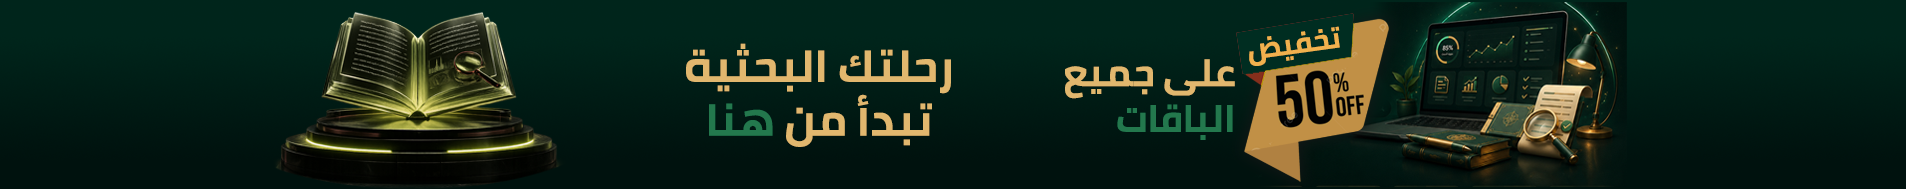
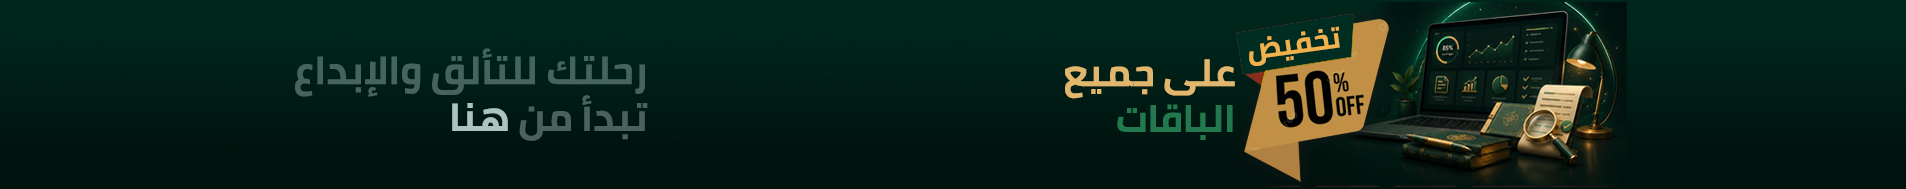
تحديث

Changed region(s): [[0.1238, 0.0794, 0.5262, 0.8201], [0.3715, 0.5556, 0.4953, 0.7672], [0.4334, 0.5026, 0.4643, 0.5556]]

diff --git a/bots.html b/bots.html
@@ -24,19 +24,8 @@
       isolation:isolate;
       overflow:hidden;
       background:#020d08;
-      border-block:1px solid rgba(209,161,58,.58);
-      box-shadow:0 18px 55px rgba(0,0,0,.30), inset 0 1px 0 rgba(240,217,140,.20);
-    }
-    .discount-banner-v1::before{
-      content:"";
-      position:absolute;
-      inset:-48% -22%;
-      z-index:3;
-      pointer-events:none;
-      background:linear-gradient(105deg,transparent 34%,rgba(255,236,170,.06) 44%,rgba(255,236,170,.34) 50%,rgba(30,255,145,.12) 54%,transparent 66%);
-      transform:translateX(76%);
-      animation:discountBannerShineV3 5.4s ease-in-out infinite;
-      mix-blend-mode:screen;
+      border-block:1px solid rgba(209,161,58,.54);
+      box-shadow:0 18px 55px rgba(0,0,0,.30), inset 0 1px 0 rgba(240,217,140,.18);
     }
     .discount-banner-v1::after{
       content:"";
@@ -45,12 +34,12 @@
       z-index:2;
       pointer-events:none;
       background:
-        radial-gradient(circle at 78% 42%,rgba(240,217,140,.20),transparent 15%),
-        radial-gradient(circle at 88% 36%,rgba(30,255,145,.24),transparent 22%),
-        radial-gradient(circle at 18% 48%,rgba(240,217,140,.16),transparent 20%),
-        linear-gradient(180deg,rgba(255,255,255,.07),transparent 30%,rgba(0,0,0,.18));
-      opacity:.72;
-      animation:discountBannerGlowV3 3.8s ease-in-out infinite alternate;
+        radial-gradient(circle at 76% 42%,rgba(240,217,140,.14),transparent 16%),
+        radial-gradient(circle at 89% 36%,rgba(30,255,145,.16),transparent 24%),
+        radial-gradient(circle at 18% 48%,rgba(240,217,140,.10),transparent 22%),
+        linear-gradient(180deg,rgba(255,255,255,.045),transparent 34%,rgba(0,0,0,.18));
+      opacity:.62;
+      animation:discountBannerGlowV4 5.6s ease-in-out infinite alternate;
     }
     .discount-banner-link-v1{
       position:relative;
@@ -62,22 +51,6 @@
       text-decoration:none!important;
       background:#020d08;
     }
-    .discount-banner-link-v1::before,
-    .discount-banner-link-v1::after{
-      content:"";
-      position:absolute;
-      z-index:4;
-      pointer-events:none;
-      width:9px;
-      height:9px;
-      border-radius:50%;
-      background:rgba(240,217,140,.96);
-      box-shadow:0 0 18px rgba(240,217,140,.78),0 0 28px rgba(30,255,145,.36);
-      opacity:0;
-      animation:discountSparkV3 2.9s ease-in-out infinite;
-    }
-    .discount-banner-link-v1::before{top:24%;right:70%;animation-delay:.25s}
-    .discount-banner-link-v1::after{top:32%;right:23%;animation-delay:1.15s}
     .discount-banner-img-v1{
       display:block;
       width:100%;
@@ -85,35 +58,25 @@
       max-height:190px;
       object-fit:cover;
       object-position:center;
-      filter:saturate(1.10) contrast(1.06) drop-shadow(0 14px 36px rgba(0,0,0,.30));
+      filter:saturate(1.09) contrast(1.055) drop-shadow(0 14px 36px rgba(0,0,0,.30));
       transform:scale(1.003);
-      animation:discountBannerFloatV3 6.8s ease-in-out infinite;
+      animation:discountBannerFloatV4 7.2s ease-in-out infinite;
+      transition:filter .35s ease, transform .35s ease;
     }
     .discount-banner-v1:hover .discount-banner-img-v1{
-      filter:saturate(1.20) contrast(1.10) brightness(1.045) drop-shadow(0 18px 44px rgba(0,0,0,.36));
+      filter:saturate(1.18) contrast(1.09) brightness(1.035) drop-shadow(0 18px 44px rgba(0,0,0,.36));
       transform:scale(1.012);
     }
-    .discount-banner-pulse-v1{
-      position:absolute;
-      z-index:5;
-      inset:auto 14.2% 16% auto;
-      width:128px;
-      height:128px;
-      border-radius:999px;
-      pointer-events:none;
-      border:1px solid rgba(240,217,140,.28);
-      box-shadow:0 0 0 0 rgba(240,217,140,.24),0 0 38px rgba(30,255,145,.16);
-      animation:discountPulseV3 2.45s ease-out infinite;
-      opacity:.58;
+    .discount-banner-v1:hover{
+      border-block-color:rgba(240,217,140,.70);
+      box-shadow:0 20px 62px rgba(0,0,0,.34), inset 0 1px 0 rgba(240,217,140,.22);
     }
-    @keyframes discountBannerShineV3{0%,38%{transform:translateX(78%);opacity:0}50%{opacity:.95}76%,100%{transform:translateX(-78%);opacity:0}}
-    @keyframes discountBannerGlowV3{from{opacity:.48;filter:saturate(1)}to{opacity:.88;filter:saturate(1.15)}}
-    @keyframes discountBannerFloatV3{0%,100%{transform:scale(1.003) translateY(0)}50%{transform:scale(1.009) translateY(-2px)}}
-    @keyframes discountPulseV3{0%{transform:scale(.74);opacity:0;box-shadow:0 0 0 0 rgba(240,217,140,.24)}30%{opacity:.62}100%{transform:scale(1.22);opacity:0;box-shadow:0 0 0 30px rgba(240,217,140,0)}}
-    @keyframes discountSparkV3{0%,100%{opacity:0;transform:scale(.4)}18%{opacity:.95;transform:scale(1.2)}38%{opacity:.20;transform:scale(.82)}}
-    @media(max-width:720px){.discount-banner-link-v1{min-height:70px}.discount-banner-img-v1{min-height:84px;object-fit:cover;object-position:center}.discount-banner-pulse-v1{display:none}.discount-banner-link-v1::before,.discount-banner-link-v1::after{display:none}}
+    .discount-banner-pulse-v1{display:none!important}
+    @keyframes discountBannerGlowV4{from{opacity:.48;filter:saturate(1)}to{opacity:.78;filter:saturate(1.12)}}
+    @keyframes discountBannerFloatV4{0%,100%{transform:scale(1.003) translateY(0)}50%{transform:scale(1.008) translateY(-2px)}}
+    @media(max-width:720px){.discount-banner-link-v1{min-height:70px}.discount-banner-img-v1{min-height:84px;object-fit:cover;object-position:center}}
     @media(max-width:460px){.discount-banner-img-v1{min-height:76px;object-position:center}.discount-banner-v1{border-block-color:rgba(209,161,58,.42)}}
-    @media(prefers-reduced-motion:reduce){.discount-banner-v1::before,.discount-banner-v1::after,.discount-banner-img-v1,.discount-banner-pulse-v1,.discount-banner-link-v1::before,.discount-banner-link-v1::after{animation:none!important}.discount-banner-v1:hover .discount-banner-img-v1{transform:none}}
+    @media(prefers-reduced-motion:reduce){.discount-banner-v1::after,.discount-banner-img-v1{animation:none!important}.discount-banner-v1:hover .discount-banner-img-v1{transform:none}}
   </style>
 </head>
 <body data-page="public-bots">
@@ -133,7 +96,6 @@
   <section class="discount-banner-v1" aria-label="بانر عرض تخفيض على جميع الباقات">
     <a class="discount-banner-link-v1" href="package.html" aria-label="استعراض الباقات المشمولة بالخصم">
       <img class="discount-banner-img-v1" src="images/discount-80-banner.png" alt="عرض تخفيض على جميع الباقات - رحلتك البحثية تبدأ من هنا" loading="eager" decoding="async">
-      <span class="discount-banner-pulse-v1" aria-hidden="true"></span>
     </a>
   </section>
   <main id="app"></main>

diff --git a/index.html b/index.html
@@ -24,19 +24,8 @@
       isolation:isolate;
       overflow:hidden;
       background:#020d08;
-      border-block:1px solid rgba(209,161,58,.58);
-      box-shadow:0 18px 55px rgba(0,0,0,.30), inset 0 1px 0 rgba(240,217,140,.20);
-    }
-    .discount-banner-v1::before{
-      content:"";
-      position:absolute;
-      inset:-48% -22%;
-      z-index:3;
-      pointer-events:none;
-      background:linear-gradient(105deg,transparent 34%,rgba(255,236,170,.06) 44%,rgba(255,236,170,.34) 50%,rgba(30,255,145,.12) 54%,transparent 66%);
-      transform:translateX(76%);
-      animation:discountBannerShineV3 5.4s ease-in-out infinite;
-      mix-blend-mode:screen;
+      border-block:1px solid rgba(209,161,58,.54);
+      box-shadow:0 18px 55px rgba(0,0,0,.30), inset 0 1px 0 rgba(240,217,140,.18);
     }
     .discount-banner-v1::after{
       content:"";
@@ -45,12 +34,12 @@
       z-index:2;
       pointer-events:none;
       background:
-        radial-gradient(circle at 78% 42%,rgba(240,217,140,.20),transparent 15%),
-        radial-gradient(circle at 88% 36%,rgba(30,255,145,.24),transparent 22%),
-        radial-gradient(circle at 18% 48%,rgba(240,217,140,.16),transparent 20%),
-        linear-gradient(180deg,rgba(255,255,255,.07),transparent 30%,rgba(0,0,0,.18));
-      opacity:.72;
-      animation:discountBannerGlowV3 3.8s ease-in-out infinite alternate;
+        radial-gradient(circle at 76% 42%,rgba(240,217,140,.14),transparent 16%),
+        radial-gradient(circle at 89% 36%,rgba(30,255,145,.16),transparent 24%),
+        radial-gradient(circle at 18% 48%,rgba(240,217,140,.10),transparent 22%),
+        linear-gradient(180deg,rgba(255,255,255,.045),transparent 34%,rgba(0,0,0,.18));
+      opacity:.62;
+      animation:discountBannerGlowV4 5.6s ease-in-out infinite alternate;
     }
     .discount-banner-link-v1{
       position:relative;
@@ -62,22 +51,6 @@
       text-decoration:none!important;
       background:#020d08;
     }
-    .discount-banner-link-v1::before,
-    .discount-banner-link-v1::after{
-      content:"";
-      position:absolute;
-      z-index:4;
-      pointer-events:none;
-      width:9px;
-      height:9px;
-      border-radius:50%;
-      background:rgba(240,217,140,.96);
-      box-shadow:0 0 18px rgba(240,217,140,.78),0 0 28px rgba(30,255,145,.36);
-      opacity:0;
-      animation:discountSparkV3 2.9s ease-in-out infinite;
-    }
-    .discount-banner-link-v1::before{top:24%;right:70%;animation-delay:.25s}
-    .discount-banner-link-v1::after{top:32%;right:23%;animation-delay:1.15s}
     .discount-banner-img-v1{
       display:block;
       width:100%;
@@ -85,35 +58,25 @@
       max-height:190px;
       object-fit:cover;
       object-position:center;
-      filter:saturate(1.10) contrast(1.06) drop-shadow(0 14px 36px rgba(0,0,0,.30));
+      filter:saturate(1.09) contrast(1.055) drop-shadow(0 14px 36px rgba(0,0,0,.30));
       transform:scale(1.003);
-      animation:discountBannerFloatV3 6.8s ease-in-out infinite;
+      animation:discountBannerFloatV4 7.2s ease-in-out infinite;
+      transition:filter .35s ease, transform .35s ease;
     }
     .discount-banner-v1:hover .discount-banner-img-v1{
-      filter:saturate(1.20) contrast(1.10) brightness(1.045) drop-shadow(0 18px 44px rgba(0,0,0,.36));
+      filter:saturate(1.18) contrast(1.09) brightness(1.035) drop-shadow(0 18px 44px rgba(0,0,0,.36));
       transform:scale(1.012);
     }
-    .discount-banner-pulse-v1{
-      position:absolute;
-      z-index:5;
-      inset:auto 14.2% 16% auto;
-      width:128px;
-      height:128px;
-      border-radius:999px;
-      pointer-events:none;
-      border:1px solid rgba(240,217,140,.28);
-      box-shadow:0 0 0 0 rgba(240,217,140,.24),0 0 38px rgba(30,255,145,.16);
-      animation:discountPulseV3 2.45s ease-out infinite;
-      opacity:.58;
+    .discount-banner-v1:hover{
+      border-block-color:rgba(240,217,140,.70);
+      box-shadow:0 20px 62px rgba(0,0,0,.34), inset 0 1px 0 rgba(240,217,140,.22);
     }
-    @keyframes discountBannerShineV3{0%,38%{transform:translateX(78%);opacity:0}50%{opacity:.95}76%,100%{transform:translateX(-78%);opacity:0}}
-    @keyframes discountBannerGlowV3{from{opacity:.48;filter:saturate(1)}to{opacity:.88;filter:saturate(1.15)}}
-    @keyframes discountBannerFloatV3{0%,100%{transform:scale(1.003) translateY(0)}50%{transform:scale(1.009) translateY(-2px)}}
-    @keyframes discountPulseV3{0%{transform:scale(.74);opacity:0;box-shadow:0 0 0 0 rgba(240,217,140,.24)}30%{opacity:.62}100%{transform:scale(1.22);opacity:0;box-shadow:0 0 0 30px rgba(240,217,140,0)}}
-    @keyframes discountSparkV3{0%,100%{opacity:0;transform:scale(.4)}18%{opacity:.95;transform:scale(1.2)}38%{opacity:.20;transform:scale(.82)}}
-    @media(max-width:720px){.discount-banner-link-v1{min-height:70px}.discount-banner-img-v1{min-height:84px;object-fit:cover;object-position:center}.discount-banner-pulse-v1{display:none}.discount-banner-link-v1::before,.discount-banner-link-v1::after{display:none}}
+    .discount-banner-pulse-v1{display:none!important}
+    @keyframes discountBannerGlowV4{from{opacity:.48;filter:saturate(1)}to{opacity:.78;filter:saturate(1.12)}}
+    @keyframes discountBannerFloatV4{0%,100%{transform:scale(1.003) translateY(0)}50%{transform:scale(1.008) translateY(-2px)}}
+    @media(max-width:720px){.discount-banner-link-v1{min-height:70px}.discount-banner-img-v1{min-height:84px;object-fit:cover;object-position:center}}
     @media(max-width:460px){.discount-banner-img-v1{min-height:76px;object-position:center}.discount-banner-v1{border-block-color:rgba(209,161,58,.42)}}
-    @media(prefers-reduced-motion:reduce){.discount-banner-v1::before,.discount-banner-v1::after,.discount-banner-img-v1,.discount-banner-pulse-v1,.discount-banner-link-v1::before,.discount-banner-link-v1::after{animation:none!important}.discount-banner-v1:hover .discount-banner-img-v1{transform:none}}
+    @media(prefers-reduced-motion:reduce){.discount-banner-v1::after,.discount-banner-img-v1{animation:none!important}.discount-banner-v1:hover .discount-banner-img-v1{transform:none}}
   </style>
 </head>
 <body data-page="public-home">
@@ -133,7 +96,6 @@
   <section class="discount-banner-v1" aria-label="بانر عرض تخفيض على جميع الباقات">
     <a class="discount-banner-link-v1" href="package.html" aria-label="استعراض الباقات المشمولة بالخصم">
       <img class="discount-banner-img-v1" src="images/discount-80-banner.png" alt="عرض تخفيض على جميع الباقات - رحلتك البحثية تبدأ من هنا" loading="eager" decoding="async">
-      <span class="discount-banner-pulse-v1" aria-hidden="true"></span>
     </a>
   </section>
   <main id="app"></main>

diff --git a/package.html b/package.html
@@ -24,19 +24,8 @@
       isolation:isolate;
       overflow:hidden;
       background:#020d08;
-      border-block:1px solid rgba(209,161,58,.58);
-      box-shadow:0 18px 55px rgba(0,0,0,.30), inset 0 1px 0 rgba(240,217,140,.20);
-    }
-    .discount-banner-v1::before{
-      content:"";
-      position:absolute;
-      inset:-48% -22%;
-      z-index:3;
-      pointer-events:none;
-      background:linear-gradient(105deg,transparent 34%,rgba(255,236,170,.06) 44%,rgba(255,236,170,.34) 50%,rgba(30,255,145,.12) 54%,transparent 66%);
-      transform:translateX(76%);
-      animation:discountBannerShineV3 5.4s ease-in-out infinite;
-      mix-blend-mode:screen;
+      border-block:1px solid rgba(209,161,58,.54);
+      box-shadow:0 18px 55px rgba(0,0,0,.30), inset 0 1px 0 rgba(240,217,140,.18);
     }
     .discount-banner-v1::after{
       content:"";
@@ -45,12 +34,12 @@
       z-index:2;
       pointer-events:none;
       background:
-        radial-gradient(circle at 78% 42%,rgba(240,217,140,.20),transparent 15%),
-        radial-gradient(circle at 88% 36%,rgba(30,255,145,.24),transparent 22%),
-        radial-gradient(circle at 18% 48%,rgba(240,217,140,.16),transparent 20%),
-        linear-gradient(180deg,rgba(255,255,255,.07),transparent 30%,rgba(0,0,0,.18));
-      opacity:.72;
-      animation:discountBannerGlowV3 3.8s ease-in-out infinite alternate;
+        radial-gradient(circle at 76% 42%,rgba(240,217,140,.14),transparent 16%),
+        radial-gradient(circle at 89% 36%,rgba(30,255,145,.16),transparent 24%),
+        radial-gradient(circle at 18% 48%,rgba(240,217,140,.10),transparent 22%),
+        linear-gradient(180deg,rgba(255,255,255,.045),transparent 34%,rgba(0,0,0,.18));
+      opacity:.62;
+      animation:discountBannerGlowV4 5.6s ease-in-out infinite alternate;
     }
     .discount-banner-link-v1{
       position:relative;
@@ -62,22 +51,6 @@
       text-decoration:none!important;
       background:#020d08;
     }
-    .discount-banner-link-v1::before,
-    .discount-banner-link-v1::after{
-      content:"";
-      position:absolute;
-      z-index:4;
-      pointer-events:none;
-      width:9px;
-      height:9px;
-      border-radius:50%;
-      background:rgba(240,217,140,.96);
-      box-shadow:0 0 18px rgba(240,217,140,.78),0 0 28px rgba(30,255,145,.36);
-      opacity:0;
-      animation:discountSparkV3 2.9s ease-in-out infinite;
-    }
-    .discount-banner-link-v1::before{top:24%;right:70%;animation-delay:.25s}
-    .discount-banner-link-v1::after{top:32%;right:23%;animation-delay:1.15s}
     .discount-banner-img-v1{
       display:block;
       width:100%;
@@ -85,35 +58,25 @@
       max-height:190px;
       object-fit:cover;
       object-position:center;
-      filter:saturate(1.10) contrast(1.06) drop-shadow(0 14px 36px rgba(0,0,0,.30));
+      filter:saturate(1.09) contrast(1.055) drop-shadow(0 14px 36px rgba(0,0,0,.30));
       transform:scale(1.003);
-      animation:discountBannerFloatV3 6.8s ease-in-out infinite;
+      animation:discountBannerFloatV4 7.2s ease-in-out infinite;
+      transition:filter .35s ease, transform .35s ease;
     }
     .discount-banner-v1:hover .discount-banner-img-v1{
-      filter:saturate(1.20) contrast(1.10) brightness(1.045) drop-shadow(0 18px 44px rgba(0,0,0,.36));
+      filter:saturate(1.18) contrast(1.09) brightness(1.035) drop-shadow(0 18px 44px rgba(0,0,0,.36));
       transform:scale(1.012);
     }
-    .discount-banner-pulse-v1{
-      position:absolute;
-      z-index:5;
-      inset:auto 14.2% 16% auto;
-      width:128px;
-      height:128px;
-      border-radius:999px;
-      pointer-events:none;
-      border:1px solid rgba(240,217,140,.28);
-      box-shadow:0 0 0 0 rgba(240,217,140,.24),0 0 38px rgba(30,255,145,.16);
-      animation:discountPulseV3 2.45s ease-out infinite;
-      opacity:.58;
+    .discount-banner-v1:hover{
+      border-block-color:rgba(240,217,140,.70);
+      box-shadow:0 20px 62px rgba(0,0,0,.34), inset 0 1px 0 rgba(240,217,140,.22);
     }
-    @keyframes discountBannerShineV3{0%,38%{transform:translateX(78%);opacity:0}50%{opacity:.95}76%,100%{transform:translateX(-78%);opacity:0}}
-    @keyframes discountBannerGlowV3{from{opacity:.48;filter:saturate(1)}to{opacity:.88;filter:saturate(1.15)}}
-    @keyframes discountBannerFloatV3{0%,100%{transform:scale(1.003) translateY(0)}50%{transform:scale(1.009) translateY(-2px)}}
-    @keyframes discountPulseV3{0%{transform:scale(.74);opacity:0;box-shadow:0 0 0 0 rgba(240,217,140,.24)}30%{opacity:.62}100%{transform:scale(1.22);opacity:0;box-shadow:0 0 0 30px rgba(240,217,140,0)}}
-    @keyframes discountSparkV3{0%,100%{opacity:0;transform:scale(.4)}18%{opacity:.95;transform:scale(1.2)}38%{opacity:.20;transform:scale(.82)}}
-    @media(max-width:720px){.discount-banner-link-v1{min-height:70px}.discount-banner-img-v1{min-height:84px;object-fit:cover;object-position:center}.discount-banner-pulse-v1{display:none}.discount-banner-link-v1::before,.discount-banner-link-v1::after{display:none}}
+    .discount-banner-pulse-v1{display:none!important}
+    @keyframes discountBannerGlowV4{from{opacity:.48;filter:saturate(1)}to{opacity:.78;filter:saturate(1.12)}}
+    @keyframes discountBannerFloatV4{0%,100%{transform:scale(1.003) translateY(0)}50%{transform:scale(1.008) translateY(-2px)}}
+    @media(max-width:720px){.discount-banner-link-v1{min-height:70px}.discount-banner-img-v1{min-height:84px;object-fit:cover;object-position:center}}
     @media(max-width:460px){.discount-banner-img-v1{min-height:76px;object-position:center}.discount-banner-v1{border-block-color:rgba(209,161,58,.42)}}
-    @media(prefers-reduced-motion:reduce){.discount-banner-v1::before,.discount-banner-v1::after,.discount-banner-img-v1,.discount-banner-pulse-v1,.discount-banner-link-v1::before,.discount-banner-link-v1::after{animation:none!important}.discount-banner-v1:hover .discount-banner-img-v1{transform:none}}
+    @media(prefers-reduced-motion:reduce){.discount-banner-v1::after,.discount-banner-img-v1{animation:none!important}.discount-banner-v1:hover .discount-banner-img-v1{transform:none}}
   </style>
 </head>
 <body data-page="public-sections">
@@ -133,7 +96,6 @@
   <section class="discount-banner-v1" aria-label="بانر عرض تخفيض على جميع الباقات">
     <a class="discount-banner-link-v1" href="package.html" aria-label="استعراض الباقات المشمولة بالخصم">
       <img class="discount-banner-img-v1" src="images/discount-80-banner.png" alt="عرض تخفيض على جميع الباقات - رحلتك البحثية تبدأ من هنا" loading="eager" decoding="async">
-      <span class="discount-banner-pulse-v1" aria-hidden="true"></span>
     </a>
   </section>
   <main id="app"></main>